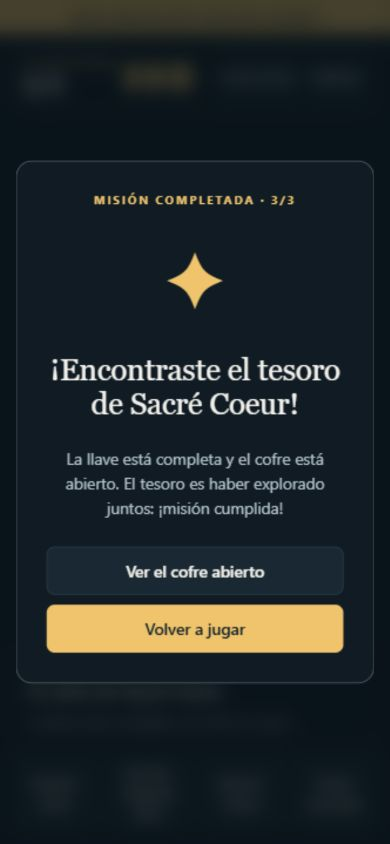
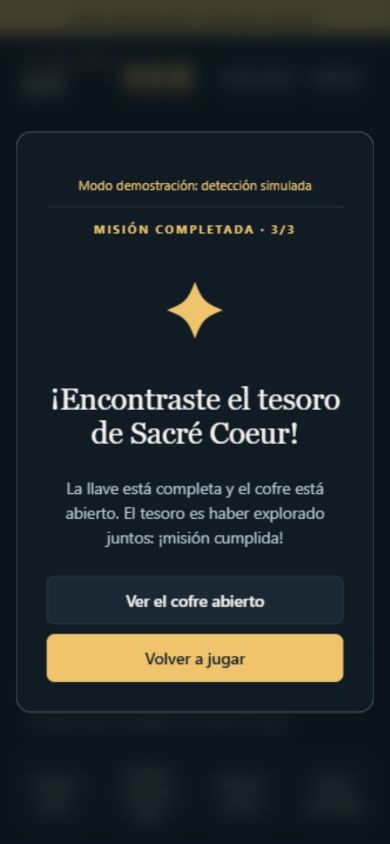
Completar validación del detector real y manejo de cámara

diff --git a/styles.css b/styles.css
@@ -1,2 +1,2 @@
 :root{color-scheme:dark;--bg:#101b24;--panel:#192832;--ink:#f3f2ec;--muted:#b4c4cd;--gold:#efc46c;--line:#334650}*{box-sizing:border-box}body{margin:0;background:var(--bg);color:var(--ink);font:16px/1.55 system-ui,-apple-system,Segoe UI,sans-serif}button,a{touch-action:manipulation}button{font:inherit;font-weight:600;cursor:pointer;min-height:48px;padding:10px 20px;border:1px solid var(--line);border-radius:8px;background:var(--panel);color:var(--ink)}button:disabled{opacity:.6;cursor:wait}button:hover{filter:brightness(1.12)}button:focus-visible,a:focus-visible{outline:3px solid #fff;outline-offset:4px}a{color:var(--gold);text-underline-offset:4px}.primary{background:var(--gold);color:#15232c;border:0}.welcome{max-width:1120px;margin:auto;padding:36px 36px 24px}.brand{display:flex;gap:14px;align-items:center;font-size:14px;font-weight:700;letter-spacing:2px}.brand small{display:block;color:var(--muted);font-weight:400;letter-spacing:0;font-size:14px}.emblem{font-size:36px;color:var(--gold)}.edition{margin-left:auto;color:var(--muted);font-size:12px}.intro-grid{display:grid;grid-template-columns:1.3fr 1fr;gap:72px;padding:64px 0 50px;align-items:center}.eyebrow{color:var(--gold);font-weight:650;font-size:12px;letter-spacing:2px;margin:0 0 14px}h1{font-family:Georgia,serif;font-size:clamp(40px,5.5vw,66px);line-height:1.08;font-weight:400;letter-spacing:-1.5px;margin:20px 0 26px}h1 em{color:var(--gold);font-weight:400}.story{font-size:18px;max-width:475px;color:var(--muted)}.steps{list-style:none;margin:30px 0;padding:0}.steps li{display:flex;gap:18px;margin:14px 0}.steps b{color:var(--gold);font-size:13px;border-bottom:1px solid var(--line);padding-top:2px}.intro .primary{width:100%;max-width:385px}.camera-note{font-size:13px;color:var(--muted);line-height:1.65}.mission-card{padding:28px 32px;border:1px solid #47606a;background:linear-gradient(150deg,#243945,#14232d);border-radius:16px;position:relative}.card-number{display:flex;justify-content:space-between;font-size:12px;letter-spacing:2px;color:var(--muted)}.card-number span{color:var(--gold)}.key-symbol{font:110px/1.1 Georgia,serif;text-align:center;color:var(--gold);margin:20px 0}.mission-card h2{font:30px/1.2 Georgia,serif;margin:16px 0}.mission-card>p:not(.eyebrow){color:var(--muted)}.fragment-line{display:flex;justify-content:space-between;border-top:1px solid #47606a;border-bottom:1px solid #47606a;padding:12px 34px;color:var(--gold);margin:24px 0}.setup-note{font-size:14px}footer{display:flex;justify-content:space-between;border-top:1px solid var(--line);padding-top:18px;color:var(--muted);font-size:12px}#test-banner{position:fixed;top:0;left:0;right:0;z-index:100;background:#efc46c;color:#101b24;text-align:center;font-size:13px;font-weight:750;padding:7px}body.testing .welcome{padding-top:64px}#game{position:fixed;inset:0}#scene-host,a-scene{position:absolute!important;inset:0!important;width:100%!important;height:100%!important}#scene-host{z-index:1}#arjs-video{z-index:0!important}body.playing{overflow:hidden}body:not(.playing)>video{display:none!important}.hud-top{position:absolute;z-index:5;top:max(12px,env(safe-area-inset-top));left:12px;right:12px;display:flex;gap:10px;align-items:center;background:#101b24ed;border:1px solid #47606a;border-radius:12px;padding:12px 16px;max-width:780px;margin:auto}.hud-top .eyebrow{display:block;font-size:10px;margin:0}.hud-top strong{font-size:26px;line-height:1.1}.icon-button{font-size:14px;padding:8px 10px}#fragments{display:flex;gap:5px;margin-right:auto}#fragments span{color:var(--muted);border:1px solid #59707b;border-radius:5px;padding:4px 8px}#fragments span.found{color:#13242d;background:var(--gold);border-color:var(--gold)}.hud-bottom{position:absolute;z-index:5;bottom:max(12px,env(safe-area-inset-bottom));left:12px;right:12px;max-width:540px;margin:auto}.detection{display:table;background:#101b24e8;border-radius:8px;padding:6px 12px;font-size:14px;margin:0 auto 8px}.clue{background:#101b24ed;border:1px solid #47606a;border-radius:12px;padding:16px 20px}.clue .eyebrow{font-size:11px;margin-bottom:4px}.clue h2{margin:0 0 6px;font-size:20px}.clue p:last-child{margin:0;color:var(--muted);font-size:15px}.scan-guide{position:absolute;top:33%;left:50%;transform:translateX(-50%);width:min(55vw,270px);height:min(55vw,270px);z-index:3;pointer-events:none;opacity:.55}.scan-guide span{position:absolute;width:28px;height:28px;border:2px solid #fff}.scan-guide span:nth-child(1){top:0;left:0;border-right:0;border-bottom:0}.scan-guide span:nth-child(2){top:0;right:0;border-left:0;border-bottom:0}.scan-guide span:nth-child(3){bottom:0;left:0;border-right:0;border-top:0}.scan-guide span:nth-child(4){bottom:0;right:0;border-left:0;border-top:0}.toast{position:absolute;z-index:7;top:24%;left:50%;transform:translateX(-50%);padding:12px 20px;border-radius:8px;background:var(--gold);color:#13242d;max-width:90vw;text-align:center;font-weight:650}.error{padding:16px;background:#431f25;border:1px solid #df8790;border-radius:10px;margin-top:10px}.error p{margin-top:0}.error a{display:inline-block;margin:10px}#storage-warning{font-size:13px;background:#431f25;padding:8px}dialog{background:var(--bg);color:var(--ink);border:1px solid #6a7d83;border-radius:16px;padding:30px;max-width:480px;width:calc(100% - 32px);max-height:85dvh;overflow:auto;z-index:30}dialog::backdrop{background:#071016bb;backdrop-filter:blur(5px)}dialog h2{font:30px/1.15 Georgia,serif}dialog p{color:var(--muted)}dialog .eyebrow{color:var(--gold)}.dialog-close{float:right;font-size:24px}.dialog-actions{display:flex;gap:12px}.victory-seal{color:var(--gold);font-size:80px;line-height:1.3}#victory{text-align:center}#victory button{width:100%;margin-top:10px}#test-controls{display:flex;gap:6px;margin-top:8px;flex-wrap:wrap}#test-controls button{flex:1;font-size:13px;padding:8px}body.testing .hud-top{top:44px}.print-page{max-width:1100px;margin:0 auto;padding:40px 24px}.print-page h1{font-size:42px}.print-toolbar{display:flex;gap:16px;align-items:center}.marker-grid{display:grid;grid-template-columns:repeat(3,1fr);gap:20px;margin:32px 0}.marker-card{background:white;color:#101b24;border-radius:12px;padding:22px;text-align:center;break-inside:avoid}.marker-card img{display:block;width:100%;height:auto;image-rendering:pixelated;margin:22px auto;background:white}.marker-card h2{font:26px Georgia,serif;margin:0}.marker-card p{font-size:14px}.marker-code{font:12px monospace}.print-note{max-width:800px;color:var(--muted)}[hidden]{display:none!important}@media(max-width:720px){.welcome{padding:22px}.brand{font-size:12px;letter-spacing:1px}.brand small{font-size:12px}.edition{display:none}.intro-grid{grid-template-columns:1fr;gap:32px;padding:34px 0}.mission-card{padding:24px}.key-symbol{font-size:70px;margin:12px}.story{font-size:16px}h1{font-size:46px}.intro .primary{max-width:none}footer{display:block}footer span{display:block;margin-top:8px}.hud-top{padding:10px;gap:7px}.hud-top .eyebrow{font-size:9px;letter-spacing:1px}.icon-button{font-size:12px;padding:6px;min-height:44px}#fragments span{font-size:12px;padding:3px 5px}.clue{padding:12px 16px}.clue h2{font-size:18px}.marker-grid{grid-template-columns:1fr}.marker-card{max-width:420px;margin:auto;width:100%}.scan-guide{top:30%}}@media(max-height:550px){.scan-guide{top:28%;height:120px;width:120px}.clue{padding:8px 14px}.clue h2{font-size:16px}.clue p:last-child{font-size:13px}.hud-bottom{max-width:540px}.toast{top:26%}}@media print{@page{size:A4 landscape;margin:12mm}body{background:white;color:black}.print-page{padding:0;max-width:none}.print-page h1{font-size:22pt;margin:0 0 8mm}.print-toolbar,.no-print{display:none!important}.marker-grid{grid-template-columns:repeat(3,1fr);gap:8mm;margin:8mm 0}.marker-card{padding:5mm;border:1px solid #ccc;border-radius:0}.marker-card img{width:58mm;height:58mm;margin:8mm auto}.marker-card h2{font-size:18pt}.marker-card p{font-size:10pt}.print-note{color:black;font-size:10pt}}
-:root body #game{z-index:2}html:has(body.playing){overflow:hidden}.test-label{font-size:13px;color:var(--gold)!important;border-bottom:1px solid var(--line);padding-bottom:12px}
+:root body #game{z-index:2}body.playing{width:100vw!important;height:100dvh!important}html:has(body.playing){overflow:hidden}.test-label{font-size:13px;color:var(--gold)!important;border-bottom:1px solid var(--line);padding-bottom:12px}#error-popup{display:none!important}

diff --git a/app.js b/app.js
@@ -13,6 +13,14 @@ let storage;
 try { const raw = window.localStorage; storage = { getItem: () => raw.getItem(key), setItem: (_, v) => raw.setItem(key,v), removeItem: () => raw.removeItem(key) }; } catch { storage = { getItem(){throw Error();}, setItem(){throw Error();}, removeItem(){throw Error();} }; }
 let { found, persistent } = loadProgress(storage, ids);
 let active = null, running = false, won = false, visible = new Set(), toastTimer, cameraTimer;
+function cameraError(err={}) {
+  setError(err.name==='NotAllowedError'?'El permiso de cámara fue rechazado. Permití la cámara en los ajustes del sitio y reintentá.':err.name==='NotFoundError'?'No encontramos una cámara. Conectá una o usá otro dispositivo.':err.name==='NotReadableError'?'La cámara está ocupada o no pudo iniciarse. Cerrá otras aplicaciones que la usen y reintentá.':'No pudimos acceder a la cámara. Revisá sus permisos y cerrá otras aplicaciones que la estén usando.');
+}
+// AR.js 3.4.8 emite camera-error sin detail. Conservamos la causa original del navegador.
+if(!testing && navigator.mediaDevices?.getUserMedia) {
+  const original=navigator.mediaDevices.getUserMedia;
+  navigator.mediaDevices.getUserMedia=function(...args){return original.apply(this,args).catch(err=>{cameraError(err);throw err;});};
+}
 $('story').textContent = mission;
 if (testing) { document.body.classList.add('testing'); $('test-banner').hidden = false; $('test-banner').textContent = demo ? 'Modo demostración: detección simulada' : 'Prueba de detector: imagen estática · sin cámara'; for(const dialog of document.querySelectorAll('dialog')) {const label=document.createElement('p');label.className='test-label';label.textContent=$('test-banner').textContent;dialog.prepend(label);} }
 function renderProgress() {
@@ -33,6 +41,7 @@ function clueFor(station) {
   if (earlier) text = `Encontraste ${station.name} antes de tiempo. El fragmento queda guardado. Buscá ahora «${earlier.name}» y después regresá a Tesoro.`;
   else if (found.size===3) text = station.id==='tesoro' ? 'La llave está completa. ¡El cofre es tuyo!' : 'Tenés los tres fragmentos. Volvé a escanear la estación «Tesoro» para abrir el cofre.';
   else if (found.has('tesoro') && missing.length) text += ` Te falta «${missing[0].name}».`;
+  if(station.location) text += ` Estación actual: ${station.location}.`;
   $('clue-label').textContent=station.stage.toUpperCase(); $('clue-title').textContent=station.title; $('clue-text').textContent=text;
 }
 function updateChest() {
@@ -56,7 +65,7 @@ function onLost(station) {
     else $('detection').textContent='Buscando marcador · la pista queda disponible';
   }
 }
-function loadScript(src) { return new Promise((resolve,reject)=>{const script=document.createElement('script'); script.src=src; script.onload=resolve; script.onerror=()=>reject(new Error('No pudimos cargar los recursos de realidad aumentada. Revisá la conexión y reintentá.')); document.head.append(script);}); }
+function loadScript(src) { return new Promise((resolve,reject)=>{const script=document.createElement('script'); const timer=setTimeout(()=>reject(new Error('La carga de realidad aumentada tardó demasiado. Revisá la conexión y reintentá.')),15000); script.src=src; script.onload=()=>{clearTimeout(timer);resolve();}; script.onerror=()=>{clearTimeout(timer);reject(new Error('No pudimos cargar los recursos de realidad aumentada. Revisá la conexión y reintentá.'));}; document.head.append(script);}); }
 let libraries;
 async function ensureLibraries() {
   if(!libraries) libraries=(async()=>{await loadScript('./assets/vendor/aframe-1.8.0.min.js'); if(!window.AFRAME) throw Error('A-Frame no está disponible.'); if(!demo) { await loadScript('./assets/vendor/aframe-ar-3.4.8.js'); if(!AFRAME.systems.arjs) throw Error('AR.js no está disponible.'); }})();
@@ -92,13 +101,11 @@ async function start() {
   $('start').disabled=false;
 }
 window.addEventListener('camera-error',event=>{
-  const err=event.detail?.error || event.detail || {};
-  const name=err.name || '';
-  setError(name==='NotAllowedError'?'El permiso de cámara fue rechazado. Permití la cámara en los ajustes del sitio y reintentá.':name==='NotFoundError'?'No encontramos una cámara. Conectá una o usá otro dispositivo.':'No pudimos acceder a la cámara. Revisá sus permisos y cerrá otras aplicaciones que la estén usando.');
+  if($('error').hidden) cameraError(event.detail?.error || event.detail || {});
 });
 window.addEventListener('arjs-video-loaded',()=>{clearTimeout(cameraTimer);clearError();$('detection').textContent='Cámara lista · buscá un marcador';});
 function reset() {
-  found.clear(); persistent=clearProgress(storage); active=null;visible.clear();won=false;clearTimeout(toastTimer);$('toast').hidden=true; clearError();
+  found.clear(); persistent=clearProgress(storage); active=null;visible.clear();won=false;clearTimeout(toastTimer);$('toast').hidden=true;
   renderProgress();updateChest();$('clue-label').textContent='TU MISIÓN';$('clue-title').textContent='Buscá la estación Inicio';$('clue-text').textContent='Encuadrá el marcador completo. Cada estación guarda un fragmento.';
   if(demo) stations.forEach(s=>$(`marker-${s.id}`)?.setAttribute('visible',false));
   for(const id of ['victory','reset-dialog']) if($(id).open) $(id).close();

diff --git a/config.js b/config.js
@@ -1,6 +1,6 @@
 export const stations = [
-  { id: 'inicio', name: 'Inicio', stage: 'El comienzo', marker: 'hiro', title: 'El primer fragmento', clue: 'La llave empieza a reunirse. Buscá la estación rotulada «Segunda pista».', location: 'Estación Inicio: punto accesible elegido por la organización.' },
-  { id: 'segunda', name: 'Segunda pista', stage: 'La búsqueda', marker: 'kanji', title: 'La brújula de cristal', clue: 'Ya estás más cerca. Buscá la estación rotulada «Tesoro» para reunir el último fragmento.', location: 'Estación Segunda pista: punto accesible elegido por la organización.' },
-  { id: 'tesoro', name: 'Tesoro', stage: 'El hallazgo', marker: 'letterA', title: 'El cofre de Sacré Coeur', clue: 'Este cofre guarda el tesoro. Reuní los tres fragmentos y volvé a escanearlo para abrirlo.', location: 'Estación Tesoro: punto accesible elegido por la organización.' }
+  { id: 'inicio', name: 'Inicio', stage: 'El comienzo', marker: 'hiro', title: 'El primer fragmento', clue: 'La llave empieza a reunirse. Buscá la estación rotulada «Segunda pista».', location: '' },
+  { id: 'segunda', name: 'Segunda pista', stage: 'La búsqueda', marker: 'kanji', title: 'La brújula de cristal', clue: 'Ya estás más cerca. Buscá la estación rotulada «Tesoro» para reunir el último fragmento.', location: '' },
+  { id: 'tesoro', name: 'Tesoro', stage: 'El hallazgo', marker: 'letterA', title: 'El cofre de Sacré Coeur', clue: 'Este cofre guarda el tesoro. Reuní los tres fragmentos y volvé a escanearlo para abrirlo.', location: '' }
 ];
 export const mission = 'Tres fragmentos de una llave virtual están escondidos en Sacré Coeur. Seguí las pistas, reunilos y abrí el cofre.';

diff --git a/markers.js b/markers.js
@@ -1,4 +1,4 @@
 import { stations } from './config.js';
 const grid=document.getElementById('marker-grid');
-stations.forEach((s,i)=>{const card=document.createElement('article');card.className='marker-card';const title=document.createElement('h2');title.textContent=`${i+1}. ${s.name}`;const img=document.createElement('img');img.src=`./assets/marcadores/${s.marker}.png`;img.alt=`Marcador AR ${s.marker} de la estación ${s.name}`;img.width=512;img.height=512;const label=document.createElement('p');label.className='marker-code';label.textContent=`Patrón ${s.marker} · ${s.stage}`;const note=document.createElement('p');note.textContent='Apuntá al cuadrado completo con la cámara del juego.';card.append(title,img,label,note);grid.append(card);});
+stations.forEach((s,i)=>{const card=document.createElement('article');card.className='marker-card';const title=document.createElement('h2');title.textContent=`${i+1}. ${s.name}`;const img=document.createElement('img');img.src=`./assets/marcadores/${s.marker}.png`;img.alt=`Marcador AR ${s.marker} de la estación ${s.name}`;img.width=512;img.height=512;const label=document.createElement('p');label.className='marker-code';label.textContent=`Patrón ${s.marker} · ${s.stage}`;const note=document.createElement('p');note.textContent=s.location?`Ubicación: ${s.location}`:'Apuntá al cuadrado completo con la cámara del juego.';card.append(title,img,label,note);grid.append(card);});
 document.getElementById('print').onclick=()=>window.print();

diff --git a/evidencias/PRUEBAS.md b/evidencias/PRUEBAS.md
@@ -1,0 +1,52 @@
+# Registro de pruebas · 5 de octubre de 2026
+
+## Entorno y método
+
+Navegador Chromium integrado de Codex. Sitio local servido por Node.js en `localhost:4173`. Tamaños comprobados: 390 × 844 (celular) y 1280 × 900 (escritorio). Capturas JPG obtenidas directamente por la API del navegador, sin generación ni edición de imágenes.
+
+**Detector real, fuente de imagen:** abrir `?detector=1`, comenzar y usar los botones Imagen. AR.js 3.4.8 recibe los PNG oficiales mediante `sourceType: image`; jsartoolkit analiza los píxeles y emite los eventos que usa el juego. No se emiten eventos desde los controles de este modo. Las imágenes y sus `.patt` se obtuvieron de la misma release oficial. La primera carga inicializa el contexto; al cambiar imagen se evita reinicializar el contexto para conservar los tres patrones cargados. Los tres fueron identificados correctamente, cada uno con su objeto 3D; el cofre cambió a abierto al completar el progreso.
+
+**Demostración:** `?demo=1`, botones que emiten markerFound y markerLost sobre las entidades de la escena. Rótulo permanente y almacenamiento separado; este método prueba interfaz/lógica, no reconocimiento.
+
+**Cámara física:** se intentó iniciar el juego normal. El sistema devolvió `NotAllowedError: Permission denied by system`. Se verificó el mensaje de permiso rechazado, progreso 0/3 y acciones de recuperación. No se reconocieron marcadores mediante cámara física.
+
+## Resultados
+
+| Comprobación | Método | Resultado |
+|---|---|---|
+| Inicio 0/3 | navegador/demo y tests Node | correcto |
+| Descubrimientos Inicio/Segunda pista/Tesoro | detector real sobre imágenes y demo | 1/3, 2/3, 3/3 |
+| Eventos repetidos / mismo marcador continuo | demo, detector continuo y test Node | no suma ni repite recompensa |
+| Tesoro encontrado primero | demo y test Node | 1/3, orientación hacia Inicio, no victoria |
+| Progreso tras recarga | navegador demo y test Node | 2/3 conservado |
+| Tres fragmentos sin volver al cofre | demo y test Node | 3/3 con indicación de regresar; no victoria |
+| Regreso al cofre con tres | demo y detector real | pantalla final y tapa abierta |
+| Reinicio y cancelación | navegador demo y test Node | cancelar conserva 3/3; confirmar vuelve a 0/3 |
+| Datos corruptos/inaccesibles en localStorage | test Node | recuperación sin excepción, memoria y aviso |
+| Adaptación celular/escritorio | navegador | controles legibles, pantalla inicial y juego adaptados |
+| Patrones y recursos | detector, red HTTP y sintaxis JS | tres patrones correctos y dependencias locales |
+| Consola | navegador | sin errores JS relevantes; avisos informativos internos de ARToolkit y aviso de AR.js sobre markersAreaEnabled |
+| Permiso rechazado | cámara normal del navegador | mensaje útil, sin pantalla vacía |
+
+`node --test tests/*.test.js`: 2 pruebas de escenarios completos aprobadas. Comprobación de sintaxis de app.js, visuals.js y markers.js aprobada.
+
+## Capturas
+
+- `01-inicio-escritorio.jpg`: inicio real, escritorio.
+- `02-juego-demo-0-de-3.jpg`: juego 0/3, **demostración**.
+- `03-fuera-de-orden-demo.jpg`: Tesoro primero, **demostración**.
+- `04-victoria-demo.jpg`: victoria, **demostración**.
+- `05-detector-real-inicio.jpg`: Hiro reconocido y llave 3D, **imagen estática en detector real**.
+- `06-detector-real-segunda-pista.jpg`: Kanji reconocido y cristal 3D, **imagen estática en detector real**.
+- `07-victoria-detector-real.jpg`: victoria del **detector real sobre imágenes**.
+- `08-cofre-abierto-detector-real.jpg`: letra A reconocida, cofre y recompensa 3D, **imagen estática en detector real**.
+- `09-marcadores-imprimibles.jpg`: página con los tres marcadores reales.
+- `10-inicio-celular.jpg`: inicio real a tamaño celular.
+- `11-camara-no-disponible.jpg`: rechazo del permiso por el sistema.
+- `12-juego-demo-escritorio.jpg`: juego y objeto 3D a tamaño escritorio, **demostración**.
+
+## Pendiente en el edificio
+
+Colocar las hojas en puntos accesibles autorizados, señalizar el trayecto e indicar dónde comienza Inicio. Comprobar en teléfonos reales la cámara, distancia de escaneo, luz, inclinación, reflejos y correspondencia de las ubicaciones. No se afirma que el recorrido físico esté verificado. El contexto inseguro, las dependencias faltantes y otros tipos de error de cámara se manejan en código, pero no se forzaron todos esos fallos en navegador.
+
+La verificación HTTPS pública posterior al despliegue se registra en `PUBLICACION.md`.
